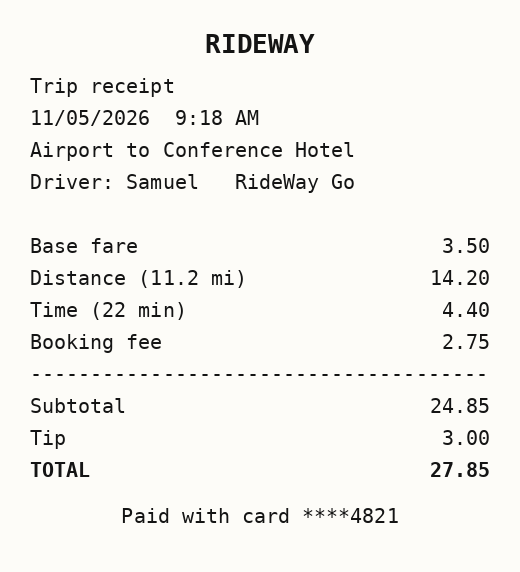
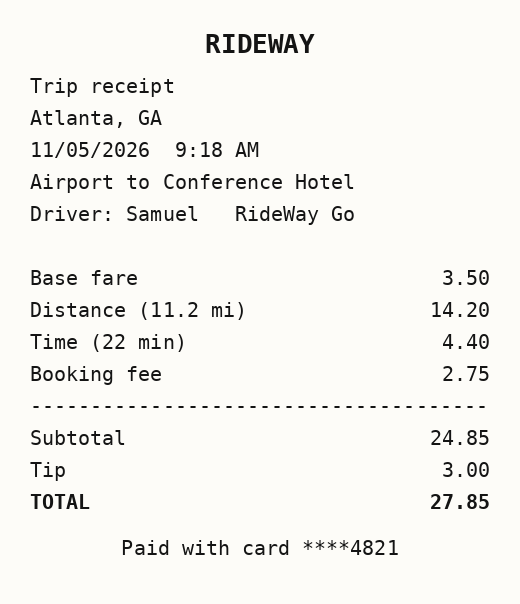
Receipt viewer, month-first dates, wording

diff --git a/app/api/parse-receipt/route.ts b/app/api/parse-receipt/route.ts
@@ -3,6 +3,7 @@ import { NextRequest, NextResponse } from "next/server";
 import { ReceiptSchema, CATEGORIES } from "@/lib/receipt";
 import { requireMember } from "@/lib/auth";
 import { signReceipt } from "@/lib/session";
+import { saveReceiptImage } from "@/lib/receiptImages";
 import { DEMO_RECEIPT_MESSAGE, demoReceipt, isDemoReader } from "@/lib/demoReader";
 
 // Created on first use, so the app still starts without an Anthropic key (demo mode)
@@ -26,13 +27,16 @@ export async function POST(req: NextRequest) {
   if (file.size > 4 * 1024 * 1024)
     return NextResponse.json({ error: "Image is over 4MB. Try a smaller photo." }, { status: 400 });
 
+  const bytes = Buffer.from(await file.arrayBuffer());
+
   if (isDemoReader()) {
     const canned = demoReceipt(file.name);
     if (!canned) return NextResponse.json({ error: DEMO_RECEIPT_MESSAGE }, { status: 400 });
-    return NextResponse.json({ ...canned, receiptToken: signReceipt(canned, auth.user.id) });
+    const imageId = await saveReceiptImage(auth.user.id, bytes, file.type);
+    return NextResponse.json({ ...canned, receiptToken: signReceipt(canned, auth.user.id), imageId });
   }
 
-  const base64 = Buffer.from(await file.arrayBuffer()).toString("base64");
+  const base64 = bytes.toString("base64");
   const today = new Date().toISOString().slice(0, 10);
 
   try {
@@ -99,6 +103,7 @@ export async function POST(req: NextRequest) {
               text: `Extract the data from this receipt. Today's date is ${today}.
 Rules:
 - You must respond by calling the record_receipt tool exactly once. Do not reply with plain text.
+- Receipts are from the United States, so read dates like 11/05/2026 as month/day/year (November 5, 2026). Only read them as day/month if the receipt itself clearly shows it is from somewhere else (a non-US currency or address, or a day above 12 in the first position). If a date is still truly ambiguous, set needs_review to true and say why.
 - "total" is the final amount paid (after tax and tip), not the subtotal.
 - Never invent values. If something is unreadable, use null for the date, make your best guess for other fields, and set needs_review to true.
 - Check every line item for alcohol (beer, wine, cocktails, liquor, etc.) and set contains_alcohol accordingly.
@@ -139,7 +144,8 @@ Rules:
     }
 
     // The signature lets /api/claims confirm these numbers came from here, unedited
-    return NextResponse.json({ ...receipt, receiptToken: signReceipt(receipt, auth.user.id) });
+    const imageId = await saveReceiptImage(auth.user.id, bytes, file.type); // so the treasurer can look at the photo
+    return NextResponse.json({ ...receipt, receiptToken: signReceipt(receipt, auth.user.id), imageId });
   } catch (err) {
     console.error("Anthropic error:", err);
     return NextResponse.json({ error: "Receipt reader is unavailable right now" }, { status: 500 });

diff --git a/app/submit/page.tsx b/app/submit/page.tsx
@@ -25,7 +25,7 @@ const SAMPLES = [
 
 const RESULT: Record<string, { title: string; style: string }> = {
   paid: { title: "Approved and paid", style: "bg-ok-bg text-ok-tx border-ok-tx/30" },
-  pending_review: { title: "Waiting for your treasurer", style: "bg-wa-bg text-wa-tx border-wa-tx/30" },
+  pending_review: { title: "Waiting approval", style: "bg-wa-bg text-wa-tx border-wa-tx/30" },
   rejected: { title: "Not approved", style: "bg-no-bg text-no-tx border-no-tx/30" },
   payout_failed: { title: "Approved, but the payment didn’t go through", style: "bg-no-bg text-no-tx border-no-tx/30" },
 };
@@ -96,6 +96,7 @@ export default function SubmitPage() {
   const [history, setHistory] = useState<ClaimRow[]>([]);
   const [receipt, setReceipt] = useState<Receipt | null>(null);
   const [token, setToken] = useState("");
+  const [imageId, setImageId] = useState("");
   const [claim, setClaim] = useState<ClaimRow | null>(null);
   const [step, setStep] = useState<Step>("upload");
   const [error, setError] = useState("");
@@ -137,9 +138,10 @@ export default function SubmitPage() {
       const res = await fetch("/api/parse-receipt", { method: "POST", body: form });
       const data = await res.json();
       if (!res.ok || data.error) throw new Error(data.error || "We couldn’t read that receipt.");
-      const { receiptToken, ...rest } = data as Receipt & { receiptToken: string };
+      const { receiptToken, imageId: savedImage, ...rest } = data as Receipt & { receiptToken: string; imageId?: string };
       setReceipt(rest);
       setToken(receiptToken);
+      setImageId(savedImage ?? "");
       setStep("confirm");
     } catch (err) {
       setError(err instanceof Error ? err.message : "Something went wrong.");
@@ -174,7 +176,7 @@ export default function SubmitPage() {
     const res = await fetch("/api/claims", {
       method: "POST",
       headers: { "Content-Type": "application/json" },
-      body: JSON.stringify({ receipt, receiptToken: token, orgId }),
+      body: JSON.stringify({ receipt, receiptToken: token, orgId, imageId }),
     });
     const data = await res.json();
     if (!res.ok) {
@@ -192,6 +194,7 @@ export default function SubmitPage() {
     setReceipt(null);
     setClaim(null);
     setToken("");
+    setImageId("");
     setError("");
     setStep("upload");
   }

diff --git a/app/login/page.tsx b/app/login/page.tsx
@@ -65,6 +65,21 @@ export default function LoginPage() {
     <main className="mx-auto max-w-xl px-6 py-12 lg:py-16">
       <h1 className="text-3xl font-bold tracking-tight sm:text-4xl">Log in</h1>
 
+      {me?.demo && (
+        <div className="mt-6 rounded-2xl border-2 border-brand bg-soft p-5" aria-label="Demo logins">
+          <p className="font-semibold">Trying the demo?</p>
+          <p className="mt-1 text-sm text-muted">Pick one to fill in the login, then press Log in.</p>
+          <div className="mt-3 flex flex-wrap gap-2">
+            <button type="button" className={smallGhostBtn} onClick={() => fillDemo("treasurer", "demo-treasurer@pockit.demo")}>
+              Demo treasurer
+            </button>
+            <button type="button" className={smallGhostBtn} onClick={() => fillDemo("member", "demo-member@pockit.demo")}>
+              Demo member
+            </button>
+          </div>
+        </div>
+      )}
+
       <div className="mt-6 grid grid-cols-2 gap-1 rounded-full border border-line bg-card p-1" role="group" aria-label="Account type">
         {(["member", "treasurer"] as Tab[]).map((t) => (
           <button
@@ -104,20 +119,6 @@ export default function LoginPage() {
         </p>
       </form>
 
-      {me?.demo && (
-        <div className="mt-6 rounded-2xl border border-line bg-soft p-5" aria-label="Demo logins">
-          <p className="font-semibold">Trying the demo?</p>
-          <p className="mt-1 text-sm text-muted">Fill in a demo login with one click, then press Log in.</p>
-          <div className="mt-3 flex flex-wrap gap-2">
-            <button type="button" className={smallGhostBtn} onClick={() => fillDemo("treasurer", "demo-treasurer@pockit.demo")}>
-              Demo treasurer
-            </button>
-            <button type="button" className={smallGhostBtn} onClick={() => fillDemo("member", "demo-member@pockit.demo")}>
-              Demo member
-            </button>
-          </div>
-        </div>
-      )}
     </main>
   );
 }

diff --git a/lib/receiptImages.ts b/lib/receiptImages.ts
@@ -1,0 +1,43 @@
+// Receipt photos, saved so a treasurer can look at them when something is unclear.
+// Stored next to the other data files (data/receipt-images). Free hosting may wipe them on restart, like everything else.
+import { randomUUID } from "crypto";
+import { promises as fs } from "fs";
+import path from "path";
+import { read, update } from "./db";
+
+type Row = { id: string; userId: string; mime: string; createdAt: string };
+const EXT: Record<string, string> = { "image/jpeg": "jpg", "image/png": "png", "image/webp": "webp" };
+const dir = () => path.join(process.cwd(), "data", "receipt-images");
+const SAFE_ID = /^[0-9a-f-]{36}$/;
+
+export async function saveReceiptImage(userId: string, bytes: Buffer, mime: string): Promise<string | undefined> {
+  const ext = EXT[mime];
+  if (!ext) return undefined;
+  const id = randomUUID();
+  try {
+    await fs.mkdir(dir(), { recursive: true });
+    await fs.writeFile(path.join(dir(), `${id}.${ext}`), bytes);
+    await update<Row>("receipt_images", (rows) => void rows.push({ id, userId, mime, createdAt: new Date().toISOString() }));
+    return id;
+  } catch (err) {
+    console.error("Couldn't save the receipt photo:", err); // the claim still works without it
+    return undefined;
+  }
+}
+
+/** True only if this photo was uploaded by this member. */
+export async function ownsImage(id: unknown, userId: string): Promise<boolean> {
+  if (typeof id !== "string" || !SAFE_ID.test(id)) return false;
+  return (await read<Row>("receipt_images")).some((r) => r.id === id && r.userId === userId);
+}
+
+export async function loadReceiptImage(id: string): Promise<{ bytes: Buffer; mime: string } | null> {
+  if (!SAFE_ID.test(id)) return null;
+  const row = (await read<Row>("receipt_images")).find((r) => r.id === id);
+  if (!row) return null;
+  try {
+    return { bytes: await fs.readFile(path.join(dir(), `${id}.${EXT[row.mime]}`)), mime: row.mime };
+  } catch {
+    return null;
+  }
+}

diff --git a/app/treasurer/AuditGrid.tsx b/app/treasurer/AuditGrid.tsx
@@ -17,6 +17,7 @@ type Claim = {
   reviewedBy?: string;
   payoutBatchId?: string;
   payAmount?: number;
+  imageId?: string;
 };
 
 const modules = [AllCommunityModule];
@@ -117,6 +118,20 @@ export default function AuditGrid({ claims }: { claims: Claim[] }) {
       },
       { colId: "why", headerName: "Why", field: "rule", flex: 2, minWidth: 170, wrapText: true, autoHeight: true },
       { colId: "status", headerName: "Status", field: "status", cellRenderer: StatusCell, flex: 1.2, minWidth: 150 },
+      {
+        colId: "photo",
+        headerName: "Receipt",
+        sortable: false,
+        filter: false,
+        flex: 0.6,
+        minWidth: 90,
+        cellRenderer: (p: { data?: Claim }) =>
+          p.data?.imageId ? (
+            <a href={`/api/claims/${p.data.id}/image`} target="_blank" rel="noopener noreferrer" className="font-semibold text-brand hover:underline">
+              View
+            </a>
+          ) : null,
+      },
       { colId: "by", headerName: "Decided by", valueGetter: (p) => decidedBy(p.data), flex: 0.9, minWidth: 100, hide: level >= 1 },
       // Not shown on screen, but included when you export the CSV for an audit
       { colId: "category", headerName: "Category", field: "receipt.category", hide: true },

diff --git a/app/api/claims/[id]/image/route.ts b/app/api/claims/[id]/image/route.ts
@@ -1,0 +1,19 @@
+import { connection } from "next/server";
+import { getSession } from "@/lib/auth";
+import { bad } from "@/lib/http";
+import { loadReceiptImage } from "@/lib/receiptImages";
+import { getClaims } from "@/lib/store";
+
+// The receipt photo for one claim. Only that claim's treasurer or the member who submitted it can open it.
+export async function GET(_req: Request, { params }: { params: Promise<{ id: string }> }) {
+  await connection();
+  const s = await getSession();
+  if (!s) return bad("Please log in.", 401);
+  const { id } = await params;
+  const claim = (await getClaims()).find((c) => c.id === id);
+  const allowed = claim && (s.user.role === "treasurer" ? !!s.org && claim.orgId === s.org.id : claim.userId === s.user.id);
+  if (!claim || !allowed || !claim.imageId) return bad("No photo for this receipt.", 404);
+  const img = await loadReceiptImage(claim.imageId);
+  if (!img) return bad("No photo for this receipt.", 404);
+  return new Response(new Uint8Array(img.bytes), { headers: { "Content-Type": img.mime, "Cache-Control": "private, no-store" } });
+}

diff --git a/app/treasurer/page.tsx b/app/treasurer/page.tsx
@@ -18,6 +18,7 @@ type Claim = {
   reviewedBy?: string;
   payoutBatchId?: string;
   payAmount?: number;
+  imageId?: string;
 };
 type Person = { id: string; status: string };
 type Text = { id: string; to: string; body: string; status: string; error?: string; createdAt: string };
@@ -129,6 +130,11 @@ export default function TreasurerPage() {
                       <StatusChip status="pending_review" />
                       <span className="text-sm text-muted">{c.rule}</span>
                     </div>
+                    {c.imageId && (
+                      <a href={`/api/claims/${c.id}/image`} target="_blank" rel="noopener noreferrer" className="mt-2 inline-block text-sm font-semibold text-brand hover:underline">
+                        View receipt photo
+                      </a>
+                    )}
                   </div>
                   <p className="text-2xl font-bold tabular-nums">${c.receipt.total.toFixed(2)}</p>
                   {confirming?.id !== c.id && (

diff --git a/app/api/claims/route.ts b/app/api/claims/route.ts
@@ -5,6 +5,7 @@ import { getOrg, read, update, type Membership } from "@/lib/db";
 import { bad, readJson, text } from "@/lib/http";
 import { textMemberAboutClaim, textTreasurerAboutClaim } from "@/lib/notify";
 import { sendPayout } from "@/lib/paypal";
+import { ownsImage } from "@/lib/receiptImages";
 import { evaluate, type Receipt } from "@/lib/policy";
 import { CATEGORY_KEYS } from "@/lib/rules";
 import { verifyReceipt } from "@/lib/session";
@@ -82,6 +83,7 @@ export async function POST(req: Request) {
     decision,
     rule,
     ...(payAmount !== undefined ? { payAmount } : {}),
+    ...((await ownsImage(b.imageId, auth.user.id)) ? { imageId: b.imageId as string } : {}),
     status: decision === "reject" ? "rejected" : "pending_review",
     createdAt: new Date().toISOString(),
   };

diff --git a/components/StatusChip.tsx b/components/StatusChip.tsx
@@ -6,7 +6,7 @@ const STYLES: Record<string, { label: string; cls: string; icon: React.ReactNode
   denied: NOT_APPROVED,
   payout_failed: { label: "Payment failed", cls: "bg-no-bg text-no-tx", icon: <path d="M12 7v6M12 17h.01" /> },
   pending_review: {
-    label: "Waiting on treasurer",
+    label: "Waiting approval",
     cls: "bg-wa-bg text-wa-tx",
     icon: (
       <>

diff --git a/lib/store.ts b/lib/store.ts
@@ -13,6 +13,7 @@ export type Claim = {
   status: "paid" | "pending_review" | "rejected" | "denied" | "payout_failed";
   payAmount?: number; // set when less than the receipt total is (or will be) paid
   payoutBatchId?: string;
+  imageId?: string; // the saved receipt photo, if there is one
   reviewedAt?: string;
   reviewedBy?: string;
   createdAt: string;
